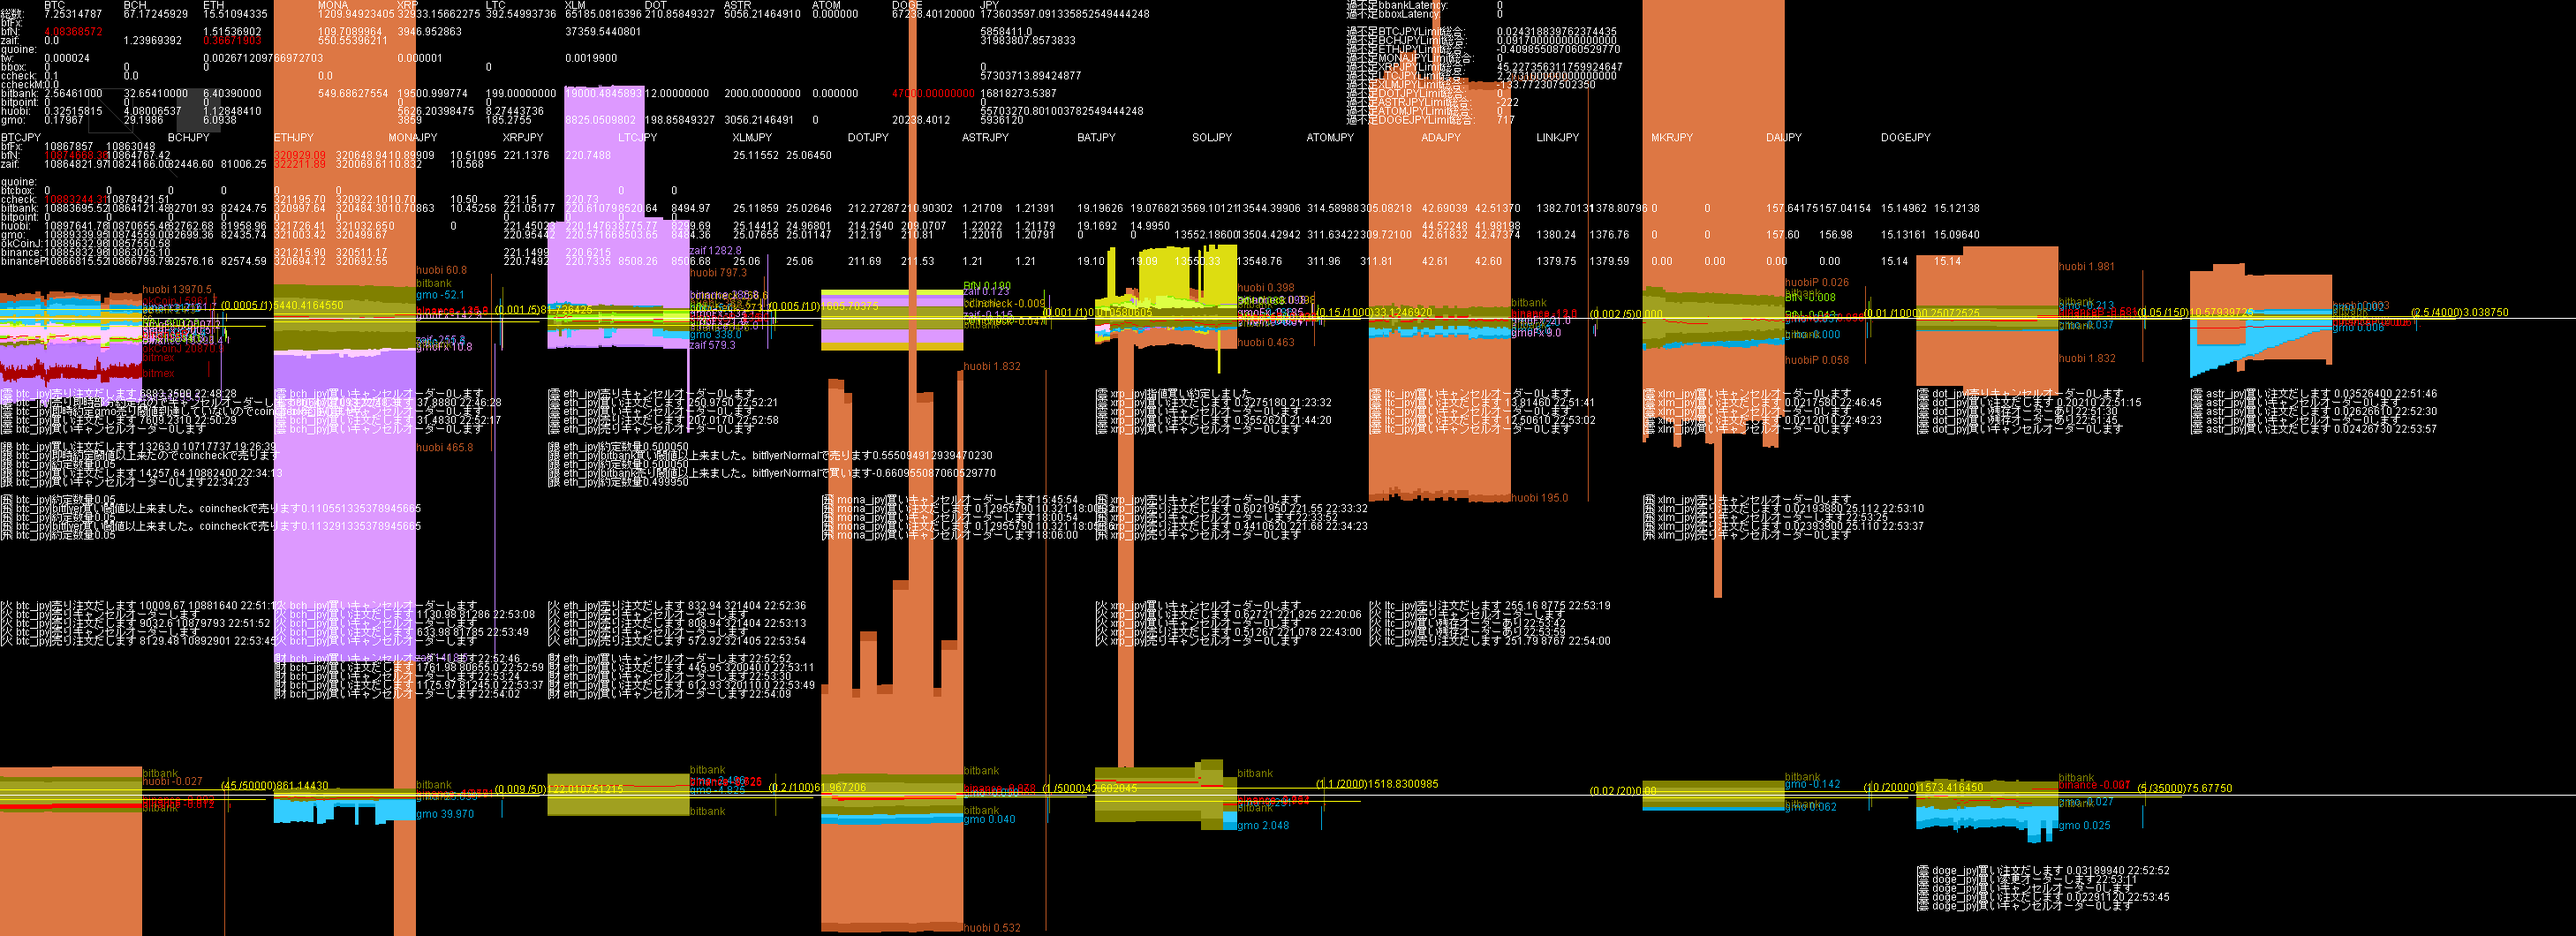
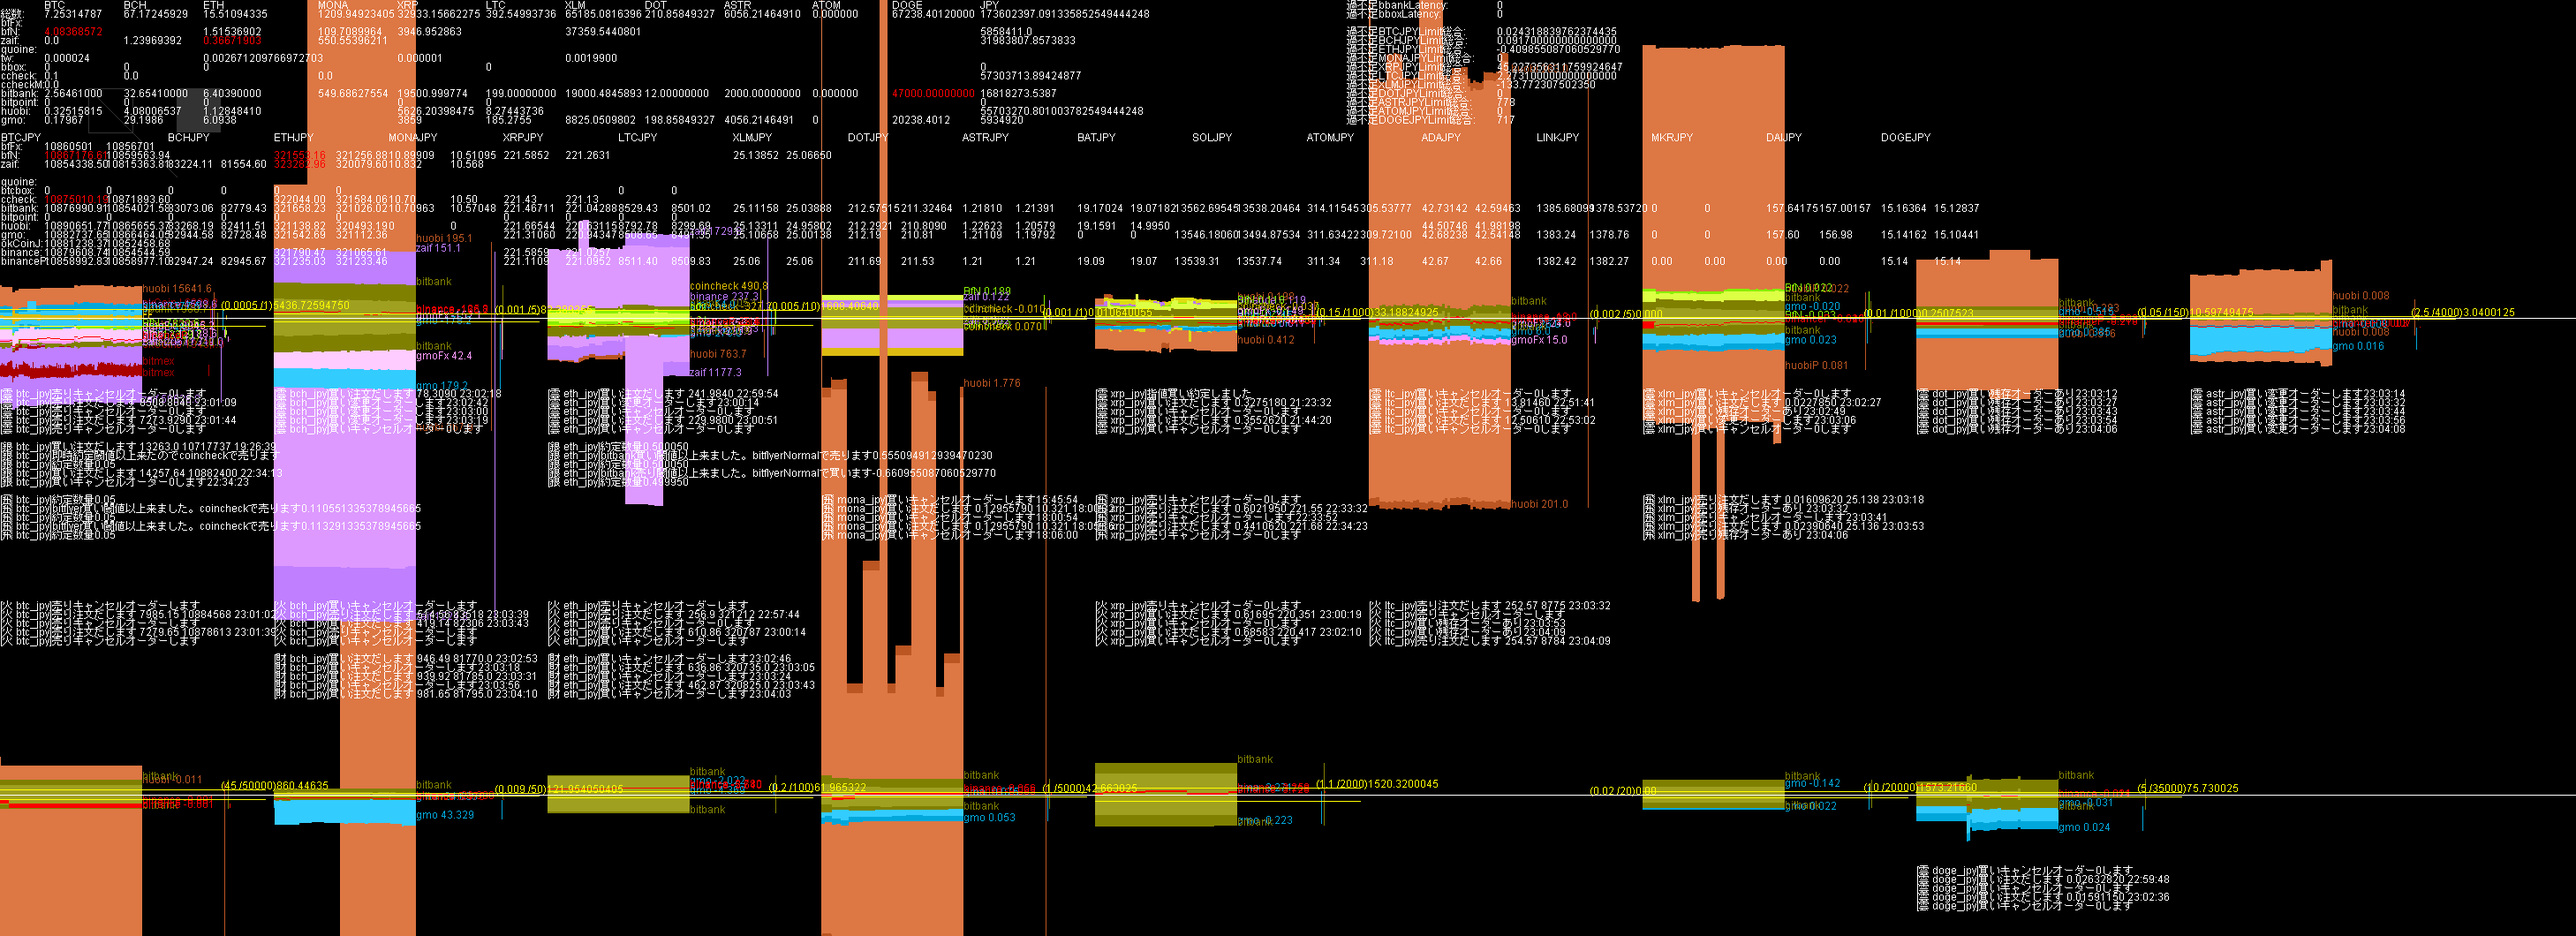
Update HTML file via Java

diff --git a/ca.html b/ca.html
@@ -16,6 +16,9 @@ th { background-color: #222; text-align: center; }
     <tr><th>ddhhmm</th><th>bfJPY</th><th>財JPY</th><th>ccJPY</th><th>銀JPY</th><th>火JPY</th><th>雲JPY</th><th>bfBTC</th><th>財BTC</th><th>ccBTC</th><th>銀BTC</th><th>火BTC</th><th>雲BTC</th><th>bfBCH</th><th>財BCH</th><th>ccBCH</th><th>銀BCH</th><th>火BCH</th><th>雲BCH</th><th>bfETH</th><th>財ETH</th><th>ccETH</th><th>銀ETH</th><th>火ETH</th><th>雲ETH</th><th>bfMONA</th><th>財MONA</th><th>ccMONA</th><th>銀MONA</th><th>火MONA</th><th>雲MONA</th><th>bfXRP</th><th>財XRP</th><th>ccXRP</th><th>銀XRP</th><th>火XRP</th><th>雲XRP</th><th>bfLTC</th><th>財LTC</th><th>ccLTC</th><th>銀LTC</th><th>火LTC</th><th>雲LTC</th><th>bfXLM</th><th>財XLM</th><th>ccXLM</th><th>銀XLM</th><th>火XLM</th><th>雲XLM</th><th>bfDOT</th><th>財DOT</th><th>ccDOT</th><th>銀DOT</th><th>火DOT</th><th>雲DOT</th><th>bfASTR</th><th>財ASTR</th><th>ccASTR</th><th>銀ASTR</th><th>火ASTR</th><th>雲ASTR</th><th>bfDOGE</th><th>財DOGE</th><th>ccDOGE</th><th>銀DOGE</th><th>火DOGE</th><th>雲DOGE</th>    </tr>  </thead>
   <tbody>
     <tr>
+<td>072304</td><td>00585</td><td>03198</td><td>05730</td><td>01681</td><td>05570</td><td>00593</td><td><span style="color: #4169e1">04.08</span></td><td>00.00</td><td><span style="color: #ff69b4">00.10</span></td><td>02.56</td><td>00.33</td><td>00.18</td><td>00.00</td><td>01.24</td><td>00.00</td><td>32.65</td><td>04.08</td><td>29.20</td><td>01.52</td><td><span style="color: #ff69b4">00.37</span></td><td>00.00</td><td>06.40</td><td>01.13</td><td>06.09</td><td>0109.7</td><td>0550.6</td><td>0000.0</td><td>0549.7</td><td>0000.0</td><td>0000.0</td><td>03947</td><td>00000</td><td>00000</td><td>19501</td><td>05626</td><td>03859</td><td>00.00</td><td>00.00</td><td>00.00</td><td>199.00</td><td>08.27</td><td>185.28</td><td><span style="color: #4169e1">00.00</span></td><td>00.00</td><td>00.00</td><td>19000.48</td><td>00.00</td><td>8825.05</td><td>00.00</td><td>00.00</td><td>00.00</td><td>12.00</td><td>00.00</td><td>198.86</td><td>00.00</td><td>00.00</td><td>00.00</td><td>2000.00</td><td>00.00</td><td>4056.21</td><td>00.00</td><td>00.00</td><td>00.00</td><td><span style="color: #4169e1">47000.00</span></td><td>00.00</td><td>20238.40</td>
+    </tr>
+    <tr>
 <td>072254</td><td>00585</td><td>03198</td><td>05730</td><td>01681</td><td>05570</td><td>00593</td><td><span style="color: #4169e1">04.08</span></td><td>00.00</td><td><span style="color: #ff69b4">00.10</span></td><td>02.56</td><td>00.33</td><td>00.18</td><td>00.00</td><td>01.24</td><td>00.00</td><td>32.65</td><td>04.08</td><td>29.20</td><td>01.52</td><td><span style="color: #ff69b4">00.37</span></td><td>00.00</td><td>06.40</td><td>01.13</td><td>06.09</td><td>0109.7</td><td>0550.6</td><td>0000.0</td><td>0549.7</td><td>0000.0</td><td>0000.0</td><td>03947</td><td>00000</td><td>00000</td><td>19501</td><td>05626</td><td>03859</td><td>00.00</td><td>00.00</td><td>00.00</td><td>199.00</td><td>08.27</td><td>185.28</td><td><span style="color: #4169e1">00.00</span></td><td>00.00</td><td>00.00</td><td>19000.48</td><td>00.00</td><td>8825.05</td><td>00.00</td><td>00.00</td><td>00.00</td><td>12.00</td><td>00.00</td><td>198.86</td><td>00.00</td><td>00.00</td><td>00.00</td><td>2000.00</td><td>00.00</td><td>3056.21</td><td>00.00</td><td>00.00</td><td>00.00</td><td><span style="color: #4169e1">47000.00</span></td><td>00.00</td><td>20238.40</td>
     </tr>
     <tr>
